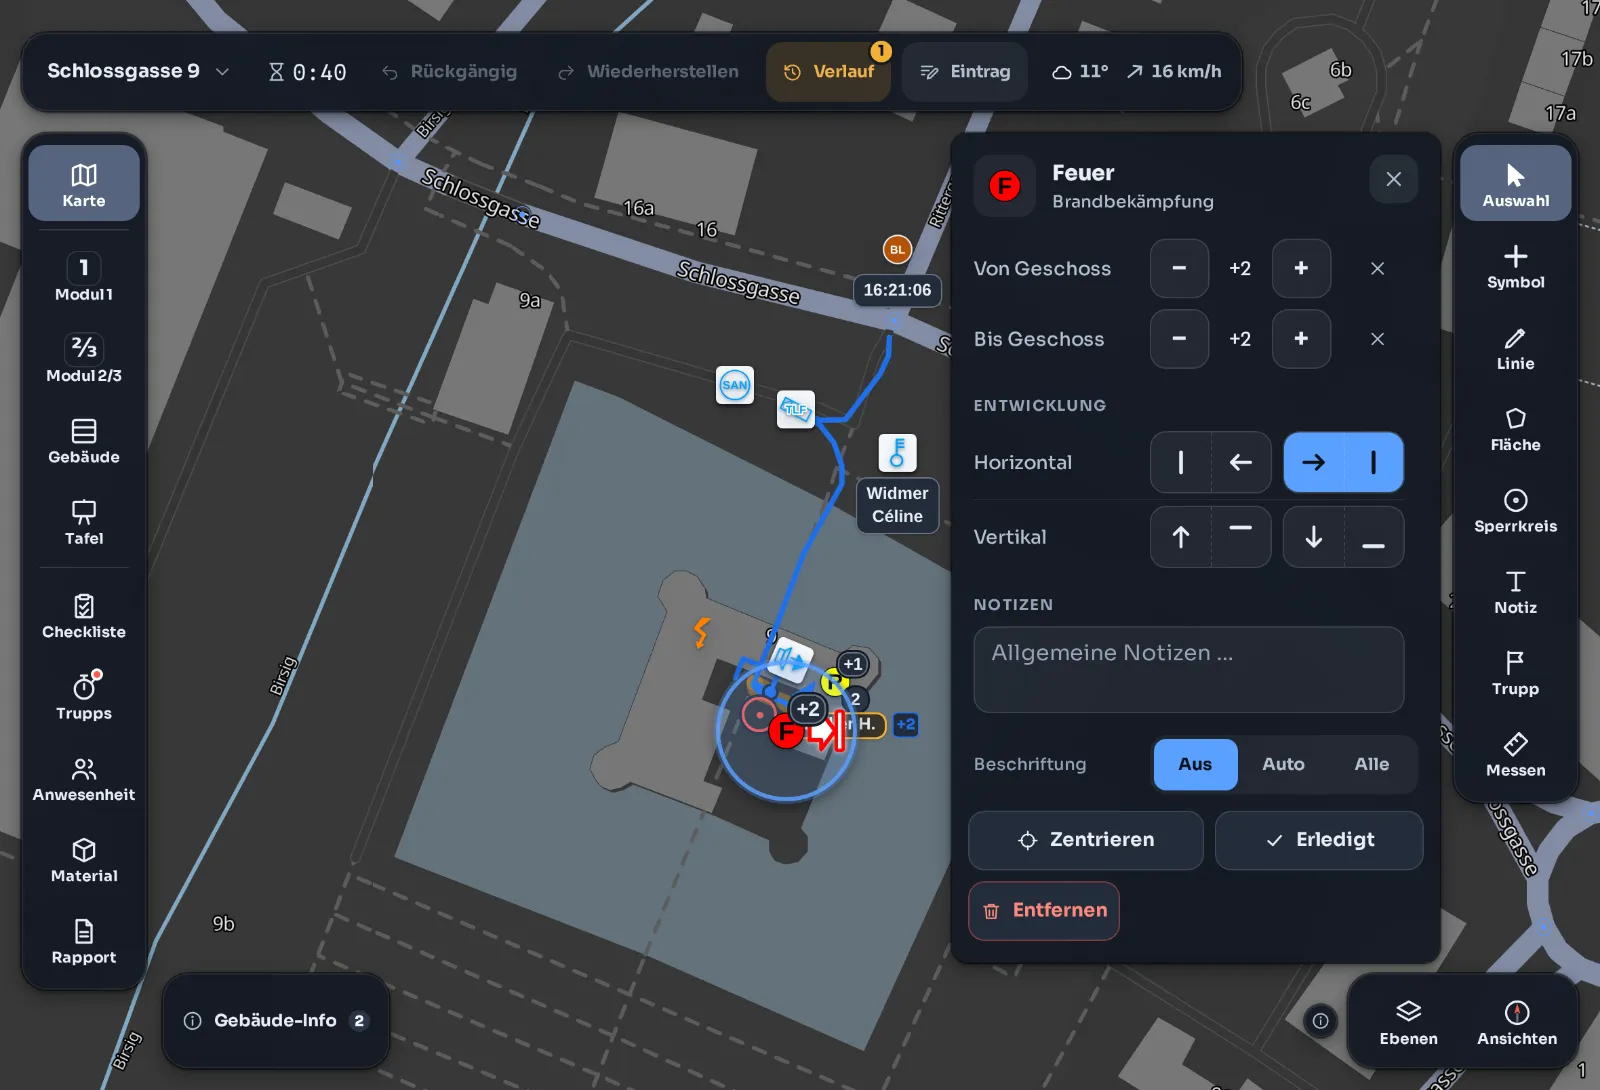
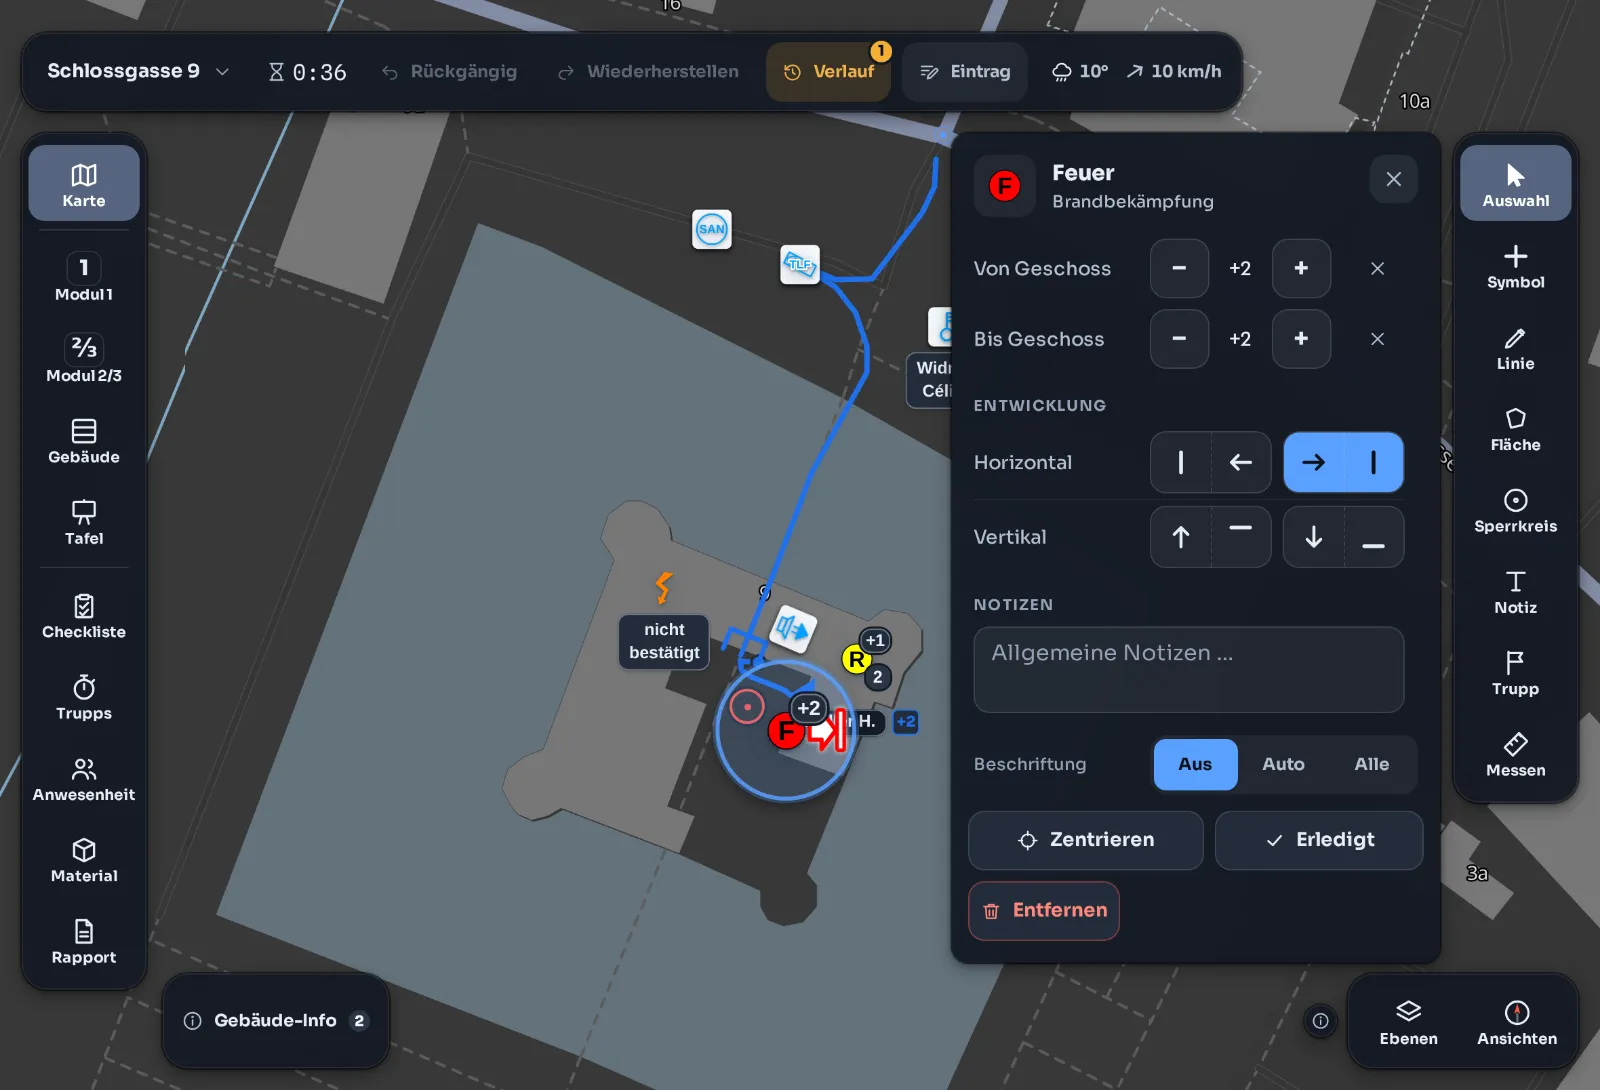
feat(site): hero phone mirrors the iPad's Karte, both zoomed in on the scene
The hero pair now shows one picture twice – the same Karte on the iPad and on
the iPhone – and the map shots zoom three notches (≈2.3×) around the fire, so
the symbols at the Schloss read at page size while the street and the hose line
stay in view. The Feuer chapter uses the same zoom.

diff --git a/site/fr/index.html b/site/fr/index.html
@@ -430,9 +430,9 @@
       </div>
       <div class="dev dev-ph">
         <picture>
-          <source data-theme-dark media="(prefers-color-scheme: dark)" srcset="../shots/dark/phone/trupps.webp">
+          <source data-theme-dark media="(prefers-color-scheme: dark)" srcset="../shots/dark/phone/karte.webp">
           <script>document.currentScript.previousElementSibling.media = document.documentElement.dataset.theme === 'dark' ? 'all' : 'not all';</script>
-          <img src="../shots/phone/trupps.webp" alt="KP Front sur téléphone : équipes avec pression et temps depuis le dernier contact" width="780" height="1592">
+          <img src="../shots/phone/karte.webp" alt="KP Front sur téléphone : la même carte de situation avec barres d’outils et de navigation" width="780" height="1592">
         </picture>
       </div>
     </div>

diff --git a/site/it/index.html b/site/it/index.html
@@ -430,9 +430,9 @@
       </div>
       <div class="dev dev-ph">
         <picture>
-          <source data-theme-dark media="(prefers-color-scheme: dark)" srcset="../shots/dark/phone/trupps.webp">
+          <source data-theme-dark media="(prefers-color-scheme: dark)" srcset="../shots/dark/phone/karte.webp">
           <script>document.currentScript.previousElementSibling.media = document.documentElement.dataset.theme === 'dark' ? 'all' : 'not all';</script>
-          <img src="../shots/phone/trupps.webp" alt="KP Front sul telefono: squadre con pressione e tempo dall’ultimo contatto" width="780" height="1592">
+          <img src="../shots/phone/karte.webp" alt="KP Front sul telefono: la stessa carta della situazione con barre degli strumenti e di navigazione" width="780" height="1592">
         </picture>
       </div>
     </div>

diff --git a/site/rm/index.html b/site/rm/index.html
@@ -430,9 +430,9 @@
       </div>
       <div class="dev dev-ph">
         <picture>
-          <source data-theme-dark media="(prefers-color-scheme: dark)" srcset="../shots/dark/phone/trupps.webp">
+          <source data-theme-dark media="(prefers-color-scheme: dark)" srcset="../shots/dark/phone/karte.webp">
           <script>document.currentScript.previousElementSibling.media = document.documentElement.dataset.theme === 'dark' ? 'all' : 'not all';</script>
-          <img src="../shots/phone/trupps.webp" alt="KP Front sin il telefonin: gruppas cun pressiun e temp dapi l’ultim contact" width="780" height="1592">
+          <img src="../shots/phone/karte.webp" alt="KP Front sin il telefonin: la medema charta da situaziun cun travs d’utensils e da navigaziun" width="780" height="1592">
         </picture>
       </div>
     </div>

diff --git a/site/en/index.html b/site/en/index.html
@@ -427,9 +427,9 @@
       </div>
       <div class="dev dev-ph">
         <picture>
-          <source data-theme-dark media="(prefers-color-scheme: dark)" srcset="../shots/dark/phone/trupps.webp">
+          <source data-theme-dark media="(prefers-color-scheme: dark)" srcset="../shots/dark/phone/karte.webp">
           <script>document.currentScript.previousElementSibling.media = document.documentElement.dataset.theme === 'dark' ? 'all' : 'not all';</script>
-          <img src="../shots/phone/trupps.webp" alt="KP Front on a phone: teams with cylinder pressure and running contact clock" width="780" height="1592">
+          <img src="../shots/phone/karte.webp" alt="KP Front on a phone: the same situation map with tool and navigation bars" width="780" height="1592">
         </picture>
       </div>
     </div>

diff --git a/site/index.html b/site/index.html
@@ -427,9 +427,9 @@
       </div>
       <div class="dev dev-ph">
         <picture>
-          <source data-theme-dark media="(prefers-color-scheme: dark)" srcset="shots/dark/phone/trupps.webp">
+          <source data-theme-dark media="(prefers-color-scheme: dark)" srcset="shots/dark/phone/karte.webp">
           <script>document.currentScript.previousElementSibling.media = document.documentElement.dataset.theme === 'dark' ? 'all' : 'not all';</script>
-          <img src="shots/phone/trupps.webp" alt="KP Front auf dem Handy: Trupps mit Druck und laufender Kontaktuhr" width="780" height="1592">
+          <img src="shots/phone/karte.webp" alt="KP Front auf dem Handy: dieselbe Lagekarte mit Werkzeug- und Navigationsleiste" width="780" height="1592">
         </picture>
       </div>
     </div>
